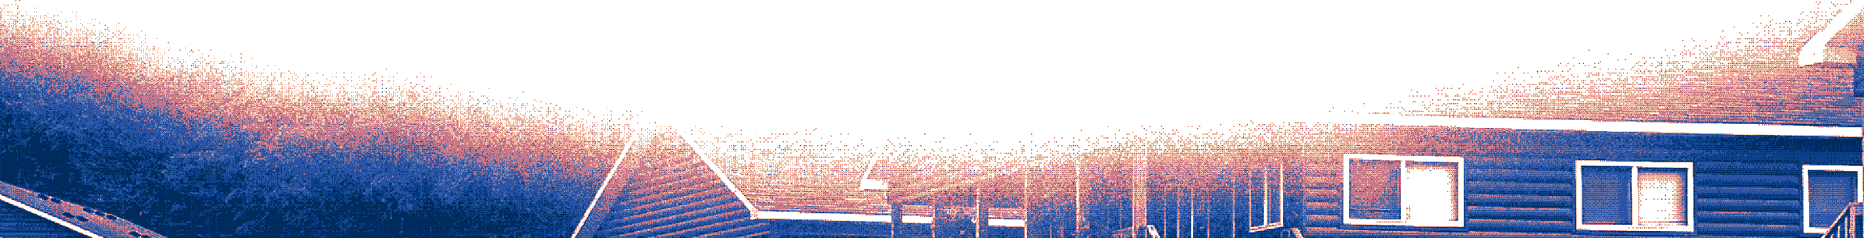
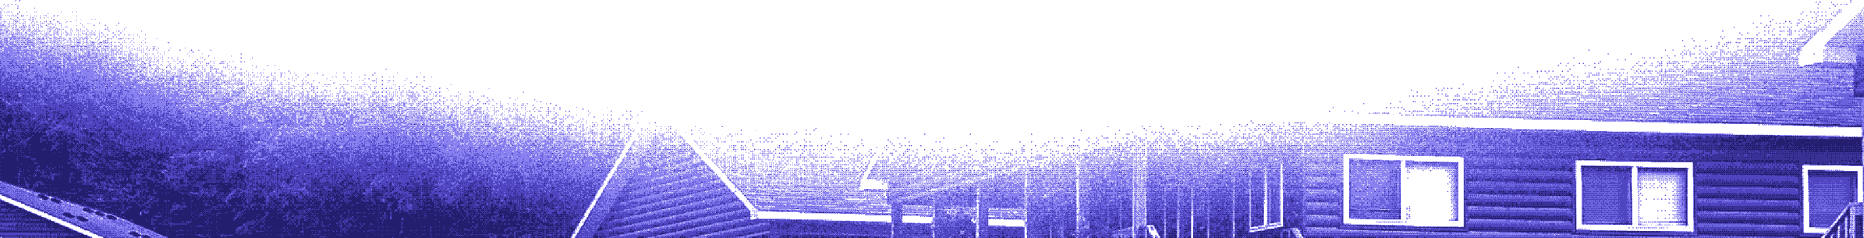
Revert sunset recolor back to the purple theme
Restore the original purple-ramp hero image and set the accent tokens back
to #6355ff / #5144f0. Keeps the --accent token names since later sections
reference them.

diff --git a/styles.css b/styles.css
@@ -34,8 +34,8 @@
 
 /* ---------- Tokens ---------- */
 :root {
-  --accent: #2953a5;        /* ocean blue — ramp step 5 */
-  --accent-hover: #0c4087;  /* ramp step 6 */
+  --accent: #6355ff;
+  --accent-hover: #5144f0;
   --ink: #000;
   --bg: #fff;
   --divider: #1c1c1c;
@@ -194,8 +194,6 @@ a { color: inherit; text-decoration: none; }
 }
 
 /* Dithered lodge photo, anchored to the bottom of the hero.
-   8-step sunset ramp (white → peach → rose → periwinkle → ocean → navy),
-   luminance-matched to the original purple ramp.
    Kept pixel-crisp so the dither pattern never blurs. */
 .hero__image {
   width: 100%;
